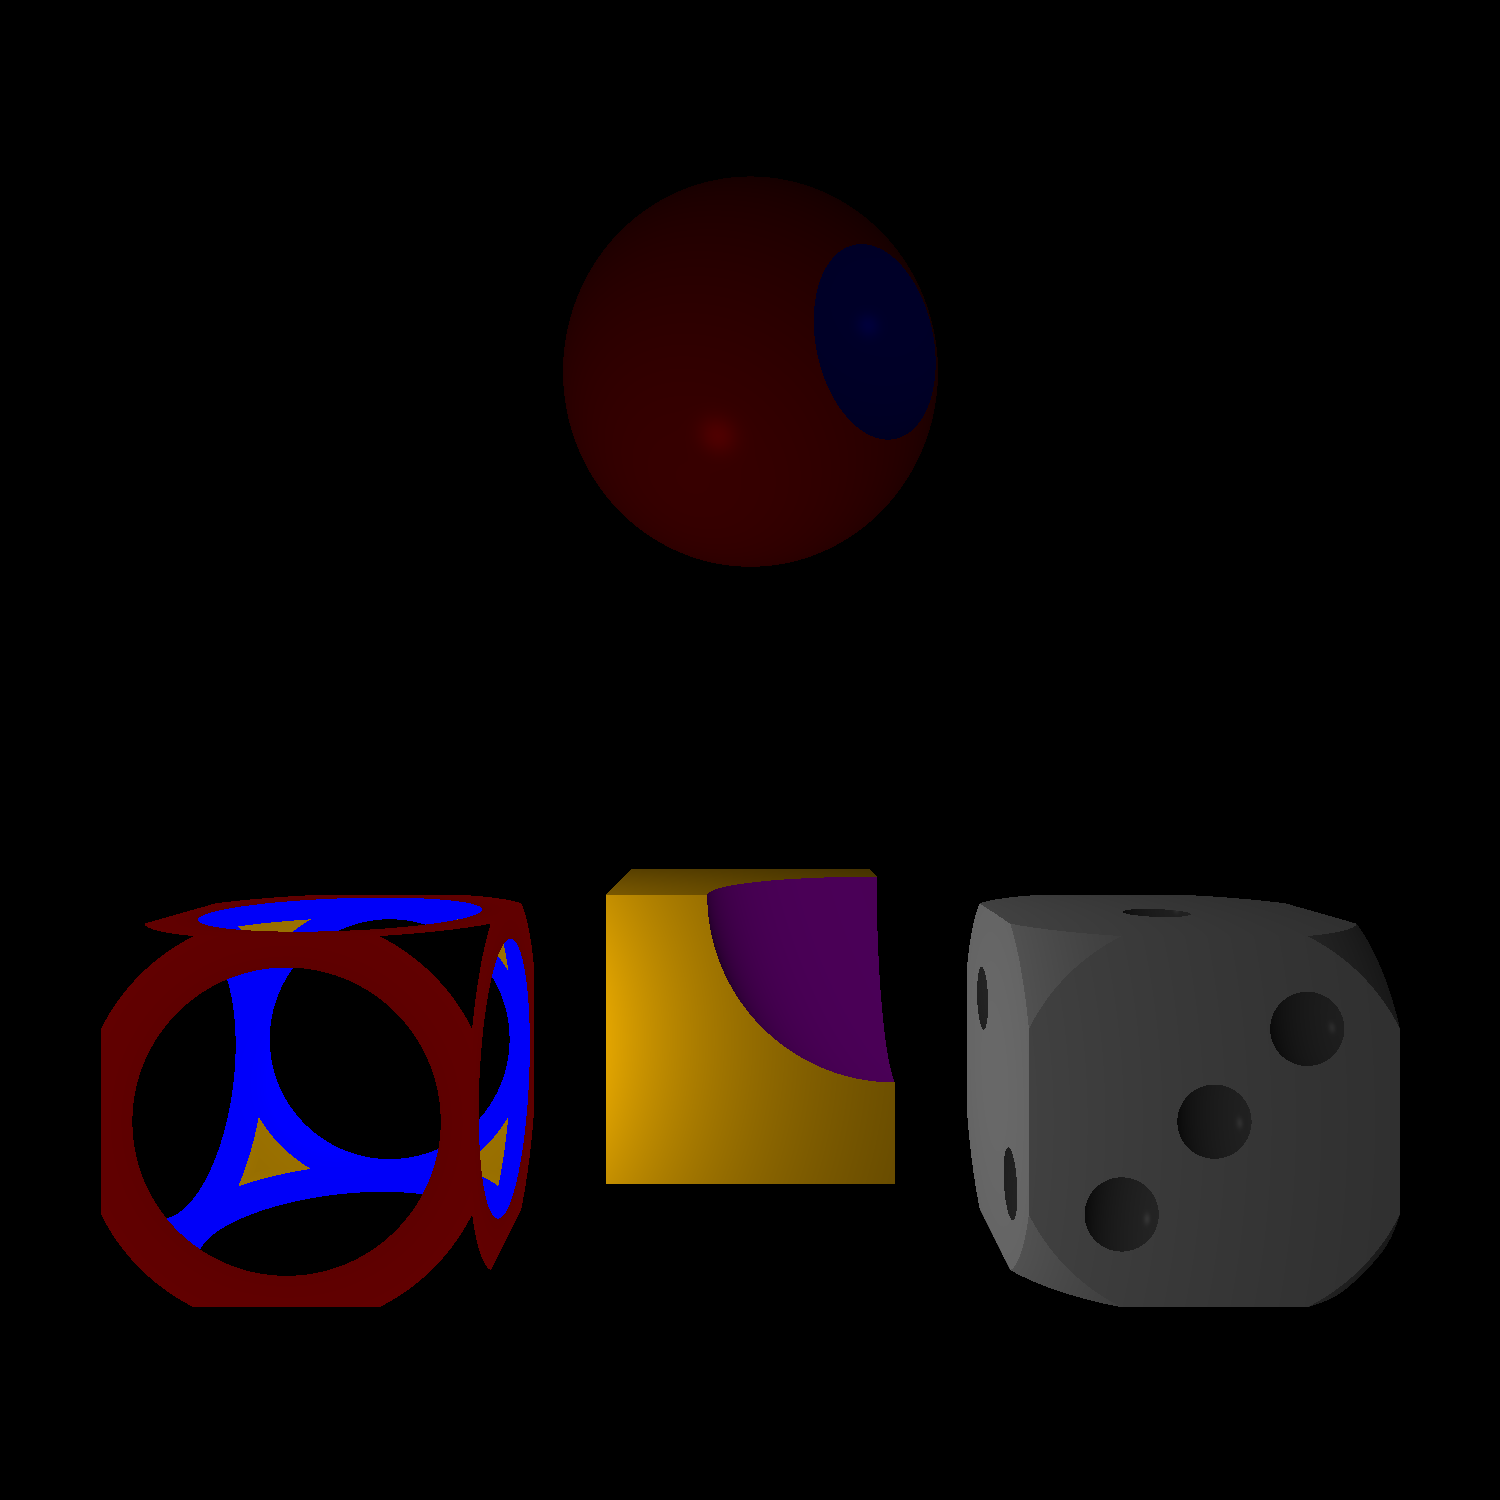
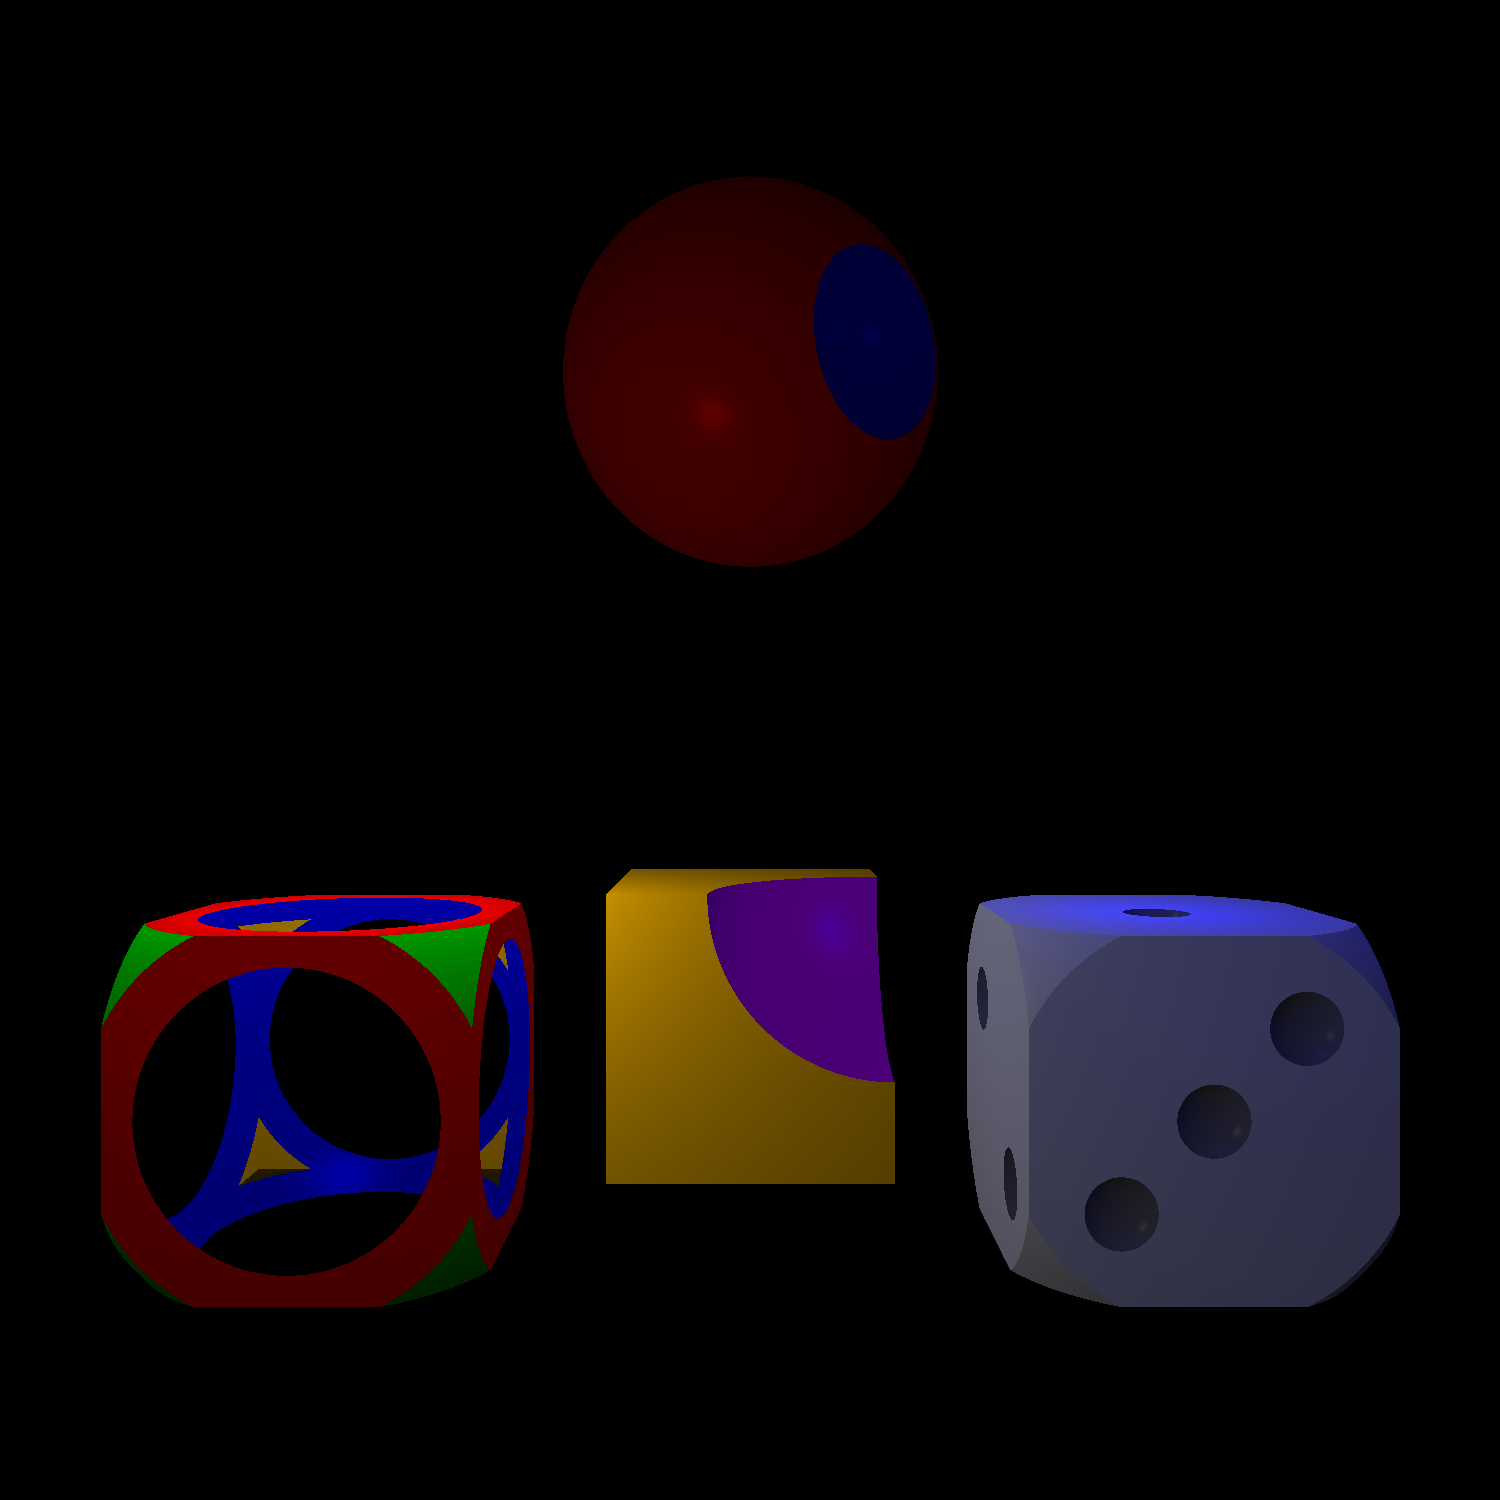
multiple pointlights

diff --git a/src/cgg/a03/Scene.java b/src/cgg/a03/Scene.java
@@ -29,7 +29,8 @@ public class Scene
 		// lighting
 		phong_lights = new ArrayList<>();
 		//phong_lights.add(new DirectionalLight(vec3(1,1,.7),color(1,1,1),1));
-		phong_lights.add(new PointLight(vec3(-1.25,1,-4),color(1,1,1),1));
+		phong_lights.add(new PointLight(vec3(-1.25,0,-4),color(1,1,1),1));
+		phong_lights.add(new PointLight(vec3(1.25,0,-4),color(0,0,1),.4));
 	}
 
 	private void _childsplay()
